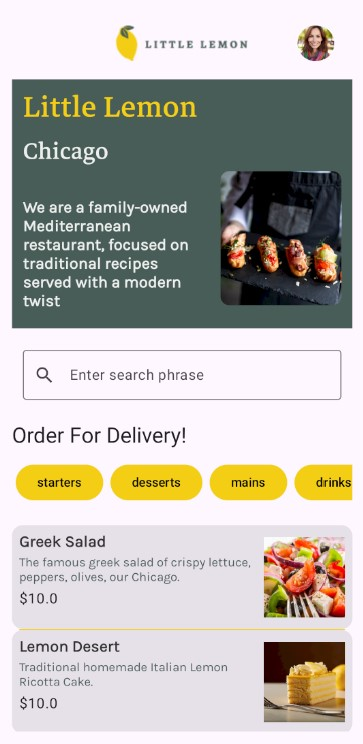
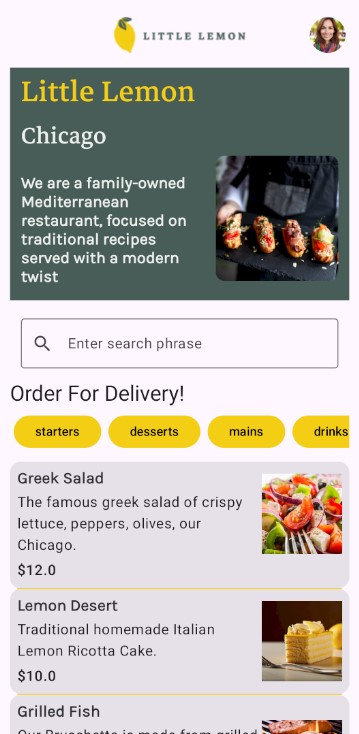
Add Padding utility object for padding consistency across screens

diff --git a/app/src/main/java/com/littlelemon/littlelemon/ui/screens/ProfileScreen.kt b/app/src/main/java/com/littlelemon/littlelemon/ui/screens/ProfileScreen.kt
@@ -43,6 +43,7 @@ import androidx.navigation.NavHostController
 import androidx.navigation.testing.TestNavHostController
 import com.littlelemon.littlelemon.R
 import com.littlelemon.littlelemon.navigation.Onboarding
+import com.littlelemon.littlelemon.utils.Padding
 import kotlinx.coroutines.delay
 import kotlinx.coroutines.launch
 
@@ -60,7 +61,6 @@ fun ProfileScreen(navController: NavHostController) {
         remember { mutableStateOf(sharedPreferences.getString("email", "") ?: "") }
     var logoutMessage by remember { mutableStateOf("") }
 
-
     val commonModifier = Modifier
         .padding(top = 8.dp, bottom = 10.dp)
         .height(56.dp)
@@ -74,7 +74,7 @@ fun ProfileScreen(navController: NavHostController) {
         horizontalAlignment = Alignment.CenterHorizontally,
         verticalArrangement = Arrangement.Top
     ) {
-        Spacer(modifier = Modifier.height(20.dp))
+        Spacer(modifier = Modifier.height(Padding.VerticalPadding))
         Image(
             painter = painterResource(id = R.drawable.logo),
             contentDescription = "logo",
@@ -91,33 +91,33 @@ fun ProfileScreen(navController: NavHostController) {
             textAlign = TextAlign.Start,
             modifier = Modifier
                 .fillMaxWidth()
-                .padding(start = 20.dp, top = 40.dp),
+                .padding(start = Padding.HorizontalPadding, top = 40.dp),
         )
-        Spacer(modifier = Modifier.height(20.dp))
+        Spacer(modifier = Modifier.height(Padding.VerticalPadding))
 
         Column(
             modifier = Modifier
                 .fillMaxWidth()
-                .padding(20.dp)
+                .padding(Padding.HorizontalPadding)
         ) {
             Text(text = stringResource(R.string.first_name))
             CustomText(
                 firstName.value,
                 modifier = commonModifier
             )
-            Spacer(modifier = Modifier.height(20.dp))
+            Spacer(modifier = Modifier.height(Padding.VerticalPadding))
             Text(text = stringResource(R.string.last_name))
             CustomText(
                 lastName.value,
                 modifier = commonModifier
             )
-            Spacer(modifier = Modifier.height(20.dp))
+            Spacer(modifier = Modifier.height(Padding.VerticalPadding))
             Text(text = stringResource(R.string.email))
             CustomText(
                 email.value,
                 modifier = commonModifier
             )
-            Spacer(modifier = Modifier.height(20.dp))
+            Spacer(modifier = Modifier.height(Padding.VerticalPadding))
             Text(
                 text = logoutMessage,
                 color = Color(0xFF138808),
@@ -143,11 +143,10 @@ fun ProfileScreen(navController: NavHostController) {
                     fontSize = 18.sp
                 )
             }
-            Spacer(modifier = Modifier.height(20.dp))
+            Spacer(modifier = Modifier.height(Padding.VerticalPadding))
         }
     }
 }
-
 
 @Composable
 fun CustomText(
@@ -175,7 +174,6 @@ fun CustomText(
 @Composable
 fun ProfileScreenPreview() {
     val context = LocalContext.current
-    val navController =
-        TestNavHostController(context) // Use a TestNavHostController for preview
+    val navController = TestNavHostController(context) // Use a TestNavHostController for preview
     ProfileScreen(navController = navController)
 }

diff --git a/app/src/main/java/com/littlelemon/littlelemon/ui/screens/OnboardingScreen.kt b/app/src/main/java/com/littlelemon/littlelemon/ui/screens/OnboardingScreen.kt
@@ -49,6 +49,7 @@ import androidx.navigation.NavHostController
 import androidx.navigation.testing.TestNavHostController
 import com.littlelemon.littlelemon.R
 import com.littlelemon.littlelemon.navigation.Home
+import com.littlelemon.littlelemon.utils.Padding
 import kotlinx.coroutines.delay
 import kotlinx.coroutines.launch
 
@@ -65,7 +66,7 @@ fun OnboardingScreen(navController: NavHostController) {
     val coroutineScope = rememberCoroutineScope()
 
     val commonModifier = Modifier
-        .padding(top = 8.dp, bottom = 10.dp)
+        .padding(top = Padding.VerticalPadding, bottom = Padding.VerticalPadding)
         .height(56.dp)
         .fillMaxWidth()
 
@@ -77,7 +78,7 @@ fun OnboardingScreen(navController: NavHostController) {
         horizontalAlignment = Alignment.CenterHorizontally,
         verticalArrangement = Arrangement.Top
     ) {
-        Spacer(modifier = Modifier.height(20.dp))
+        Spacer(modifier = Modifier.height(Padding.VerticalPadding))
         Image(
             painter = painterResource(id = R.drawable.logo),
             contentDescription = "logo",
@@ -105,12 +106,12 @@ fun OnboardingScreen(navController: NavHostController) {
             textAlign = TextAlign.Start,
             modifier = Modifier
                 .fillMaxWidth()
-                .padding(start = 20.dp, top = 40.dp),
+                .padding(start = Padding.HorizontalPadding, top = 40.dp),
         )
         Column(
             modifier = Modifier
                 .fillMaxWidth()
-                .padding(20.dp)
+                .padding(Padding.HorizontalPadding)
         ) {
             Text(text = stringResource(R.string.first_name))
             CustomTextField(
@@ -123,7 +124,7 @@ fun OnboardingScreen(navController: NavHostController) {
                 ),
                 isError = firstNameError
             )
-            Spacer(modifier = Modifier.height(20.dp))
+            Spacer(modifier = Modifier.height(Padding.VerticalPadding))
             Text(text = stringResource(R.string.last_name))
             CustomTextField(
                 value = lastName,
@@ -135,7 +136,7 @@ fun OnboardingScreen(navController: NavHostController) {
                 ),
                 isError = lastNameError
             )
-            Spacer(modifier = Modifier.height(20.dp))
+            Spacer(modifier = Modifier.height(Padding.VerticalPadding))
             Text(text = stringResource(R.string.email))
             CustomTextField(
                 value = email,
@@ -149,7 +150,7 @@ fun OnboardingScreen(navController: NavHostController) {
                 ),
                 isError = emailError
             )
-            Spacer(modifier = Modifier.height(20.dp))
+            Spacer(modifier = Modifier.height(Padding.VerticalPadding))
             Text(
                 text = registrationMessage,
                 color = if (registrationMessage.contains("unsuccessful")) Color.Red else Color(0xFF138808),

diff --git a/app/src/main/java/com/littlelemon/littlelemon/ui/components/UpperPanel.kt b/app/src/main/java/com/littlelemon/littlelemon/ui/components/UpperPanel.kt
@@ -18,28 +18,18 @@ import androidx.compose.ui.layout.ContentScale
 import androidx.compose.ui.res.painterResource
 import androidx.compose.ui.res.stringResource
 import androidx.compose.ui.tooling.preview.Preview
-import androidx.compose.ui.unit.dp
 import com.littlelemon.littlelemon.R
 import com.littlelemon.littlelemon.ui.theme.LittleLemonColor
 import com.littlelemon.littlelemon.ui.theme.LittleLemonTypography
-
-
-private val HorizontalPadding = 12.dp
-private val DescriptionTopPadding = 20.dp
-private val DescriptionBottomPadding = 16.dp
-private val DescriptionEndPadding = 12.dp
-private val ImageSize = 140.dp
-private val ImageCornerRadius = 10.dp
-
+import com.littlelemon.littlelemon.utils.Padding
 
 @Composable
 fun UpperPanel() {
-
     Column(
         modifier = Modifier
             .fillMaxWidth()
             .background(LittleLemonColor.green)
-            .padding(start = HorizontalPadding, end = HorizontalPadding)
+            .padding(start = Padding.HorizontalPadding, end = Padding.HorizontalPadding)
     ) {
         Text(
             text = stringResource(id = R.string.title),
@@ -59,7 +49,11 @@ fun UpperPanel() {
                 color = LittleLemonColor.cloud,
                 style = MaterialTheme.typography.titleMedium,
                 modifier = Modifier
-                    .padding(top = DescriptionTopPadding, bottom = DescriptionBottomPadding, end = DescriptionEndPadding)
+                    .padding(
+                        top = Padding.DescriptionTopPadding,
+                        bottom = Padding.DescriptionBottomPadding,
+                        end = Padding.DescriptionEndPadding
+                    )
                     .fillMaxWidth(0.6f)
             )
             Image(
@@ -67,8 +61,8 @@ fun UpperPanel() {
                 contentDescription = "Hero Image",
                 contentScale = ContentScale.Crop,
                 modifier = Modifier
-                    .size(ImageSize)
-                    .clip(RoundedCornerShape(ImageCornerRadius))
+                    .size(Padding.ImageSize)
+                    .clip(RoundedCornerShape(Padding.ImageCornerRadius))
             )
         }
     }

diff --git a/app/src/main/java/com/littlelemon/littlelemon/ui/screens/HomeScreen.kt b/app/src/main/java/com/littlelemon/littlelemon/ui/screens/HomeScreen.kt
@@ -55,7 +55,7 @@ import com.littlelemon.littlelemon.data.MenuItemRoom
 import com.littlelemon.littlelemon.ui.components.TopAppBar
 import com.littlelemon.littlelemon.ui.components.UpperPanel
 import com.littlelemon.littlelemon.ui.theme.LittleLemonColor
-
+import com.littlelemon.littlelemon.utils.Padding
 
 @Composable
 fun HomeScreen(navController: NavHostController) {
@@ -78,7 +78,7 @@ fun HomeScreen(navController: NavHostController) {
     Column(
         modifier = Modifier
             .fillMaxWidth()
-            .padding(16.dp)
+            .padding(Padding.HorizontalPadding)
     ) {
         TopAppBar(navController)
         Spacer(modifier = Modifier.height(12.dp))
@@ -97,7 +97,7 @@ fun HomeScreen(navController: NavHostController) {
             ),
             modifier = Modifier
                 .fillMaxWidth()
-                .padding(start = 12.dp, end = 12.dp)
+                .padding(start = Padding.HorizontalPadding, end = Padding.HorizontalPadding)
         )
 
         Text(
@@ -106,7 +106,7 @@ fun HomeScreen(navController: NavHostController) {
             style = MaterialTheme.typography.headlineSmall,
             modifier = Modifier
                 .fillMaxWidth()
-                .padding(top = 12.dp, bottom = 8.dp)
+                .padding(top = Padding.VerticalPadding, bottom = 8.dp)
         )
 
         CategoryButtons(

diff --git a/app/src/main/java/com/littlelemon/littlelemon/ui/components/TopAppBar.kt b/app/src/main/java/com/littlelemon/littlelemon/ui/components/TopAppBar.kt
@@ -28,16 +28,16 @@ import androidx.navigation.NavHostController
 import androidx.navigation.testing.TestNavHostController
 import com.littlelemon.littlelemon.R
 import com.littlelemon.littlelemon.navigation.Profile
-
+import com.littlelemon.littlelemon.utils.Padding
 
 @Composable
 fun TopAppBar(navController: NavHostController) {
     Box(
         modifier = Modifier
             .fillMaxWidth()
-            .padding(4.dp)
+            .padding(Padding.HorizontalPadding)
     ) {
-        Spacer(modifier = Modifier.height(20.dp))
+        Spacer(modifier = Modifier.height(Padding.VerticalPadding))
         Image(
             painter = painterResource(id = R.drawable.logo),
             contentDescription = "logo",
@@ -56,7 +56,7 @@ fun TopAppBar(navController: NavHostController) {
                 .clip(CircleShape)
                 .clickable { navController.navigate(Profile.route) }
         )
-        Spacer(modifier = Modifier.height(20.dp))
+        Spacer(modifier = Modifier.height(Padding.VerticalPadding))
     }
 }
 

diff --git a/app/src/main/java/com/littlelemon/littlelemon/utils/Padding.kt b/app/src/main/java/com/littlelemon/littlelemon/utils/Padding.kt
@@ -1,0 +1,13 @@
+package com.littlelemon.littlelemon.utils
+
+import androidx.compose.ui.unit.dp
+
+object Padding {
+    val HorizontalPadding = 12.dp
+    val VerticalPadding = 20.dp
+    val DescriptionTopPadding = 20.dp
+    val DescriptionBottomPadding = 16.dp
+    val DescriptionEndPadding = 12.dp
+    val ImageSize = 140.dp
+    val ImageCornerRadius = 10.dp
+}
